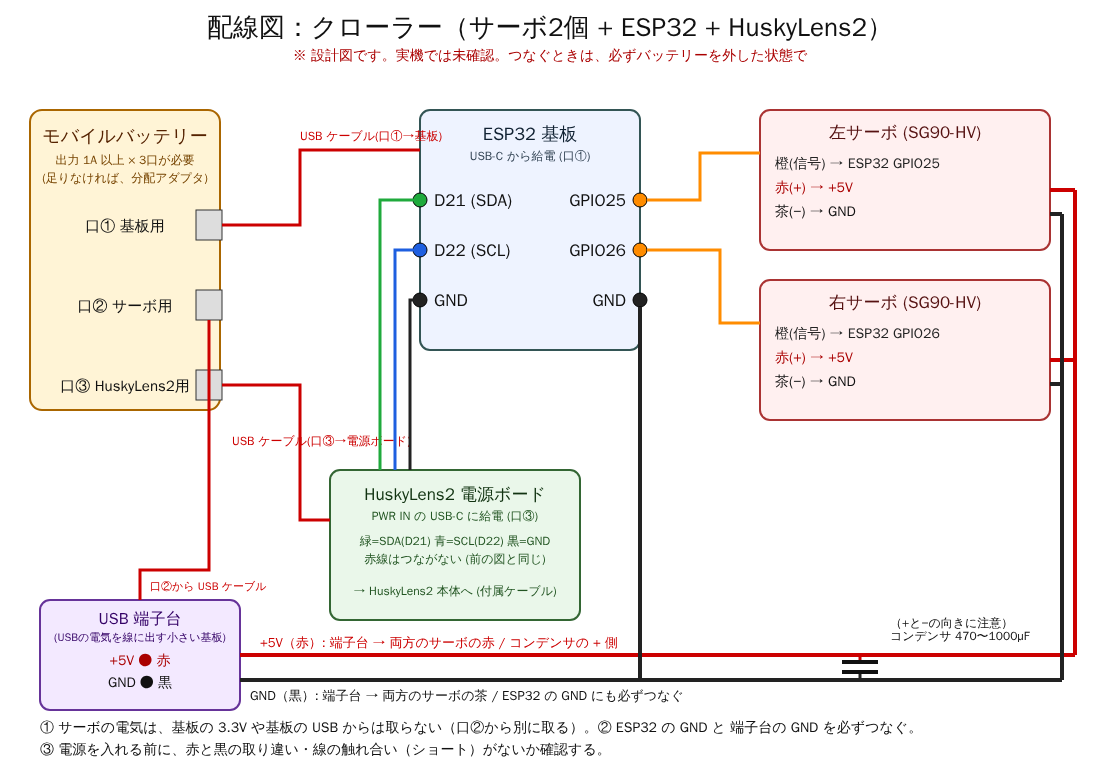
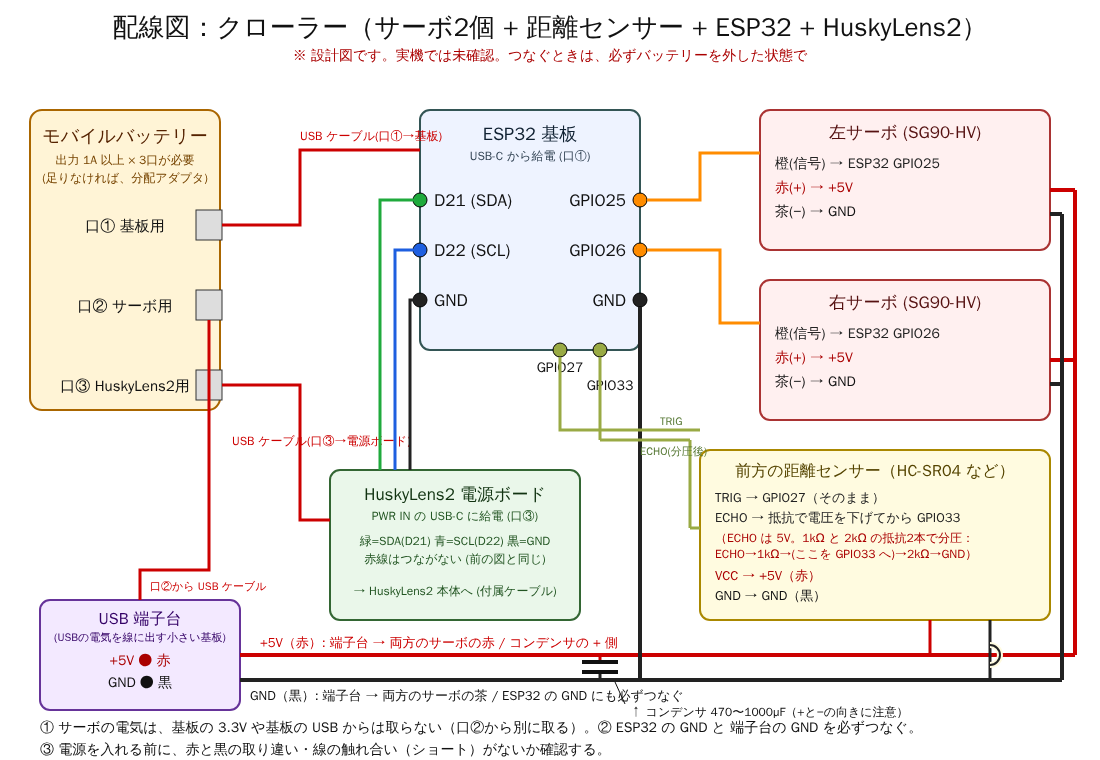
Wall avoidance with ultrasonic sensor (HC-SR04): back up and turn away while scouting; stop when wall ahead while tracking (unverified on device); wiring diagram updated
Claude-Session: https://claude.ai/code/session_012mYKMKpnkA774TEi34z85Q

diff --git a/Esp32TimeSync/esp32/drive.py b/Esp32TimeSync/esp32/drive.py
@@ -18,6 +18,13 @@ TURN_MS = 500  # 探すとき、1回に回る時間
 LOOK_MS = 1200  # 回ったあと、止まって見る時間(動いている間は、画像がぶれて、見つかりにくい)
 STEPS_PER_TURN = 12  # 「回る→見る」を、この回数やったら(だいたい1周)、少し前進する
 FORWARD_MS = 2000  # 1周しても見つからないとき、前進する時間
+# 前方の壁よけ(超音波距離センサー HC-SR04 など)
+PIN_TRIG = 27  # センサーの TRIG をつなぐ GPIO 番号
+PIN_ECHO = 33  # センサーの ECHO をつなぐ GPIO 番号(★5V の ECHO は、抵抗2本で 3.3V 以下に下げてから)
+STOP_CM = 25  # これより近いものが前にあれば、前進をやめる(センチ)
+CONFIRM_N = 2  # 近いという測定が、続けて何回出たら、本当に近いと判断するか(ノイズ対策)
+BACK_MS = 1000  # ぶつかりそうなとき、後ろに下がる時間
+AVOID_TURN_MS = 1000  # 下がったあと、壁から離れる向きに回る時間
 
 try:
     from time import ticks_diff
@@ -44,6 +51,8 @@ def wheel_signs(cmd):
     """動き -> (左, 右)。1 = 前に回す / -1 = 後ろに回す / 0 = 止める。(その場で回る: 左右を逆に回す)"""
     if cmd == "forward":
         return (1, 1)
+    if cmd == "back":
+        return (-1, -1)
     if cmd == "left":
         return (-1, 1)  # 左に回る = 左を後ろ、右を前
     if cmd == "right":
@@ -110,17 +119,44 @@ def _track(husky, current):
     return decide(first["x"], first["w"])
 
 
+class Sonar:
+    """超音波距離センサー。measure() で、前にあるものまでの距離(センチ)を返す。何も返ってこなければ None。"""
+
+    def __init__(self, trig, echo, pulse_fn, sleep_us, timeout_us=15000):
+        self.trig = trig
+        self.echo = echo
+        self.pulse_fn = pulse_fn  # machine.time_pulse_us
+        self.sleep_us = sleep_us
+        self.timeout_us = timeout_us  # 15 ms = 約2.5 m まで
+
+    def measure(self):
+        self.trig.value(0)
+        self.sleep_us(2)
+        self.trig.value(1)
+        self.sleep_us(10)
+        self.trig.value(0)
+        t = self.pulse_fn(self.echo, 1, self.timeout_us)
+        if t is None or t <= 0:
+            return None
+        return t / 58.0  # 音が往復する時間 → 距離(cm)
+
+
 class Planner:
     """見えているときは追いかけ、見えなくなったら、しばらく待ってから、回って探す(偵察)。"""
 
     def __init__(self, lost_ms=LOST_MS, turn_ms=TURN_MS, look_ms=LOOK_MS, steps=STEPS_PER_TURN,
-                 forward_ms=FORWARD_MS, img_w=IMG_W):
+                 forward_ms=FORWARD_MS, img_w=IMG_W, stop_cm=STOP_CM, confirm_n=CONFIRM_N,
+                 back_ms=BACK_MS, avoid_turn_ms=AVOID_TURN_MS):
         self.lost_ms = lost_ms
         self.turn_ms = turn_ms
         self.look_ms = look_ms
         self.steps = steps
         self.forward_ms = forward_ms
         self.img_w = img_w
+        self.stop_cm = stop_cm
+        self.confirm_n = confirm_n
+        self.back_ms = back_ms
+        self.avoid_turn_ms = avoid_turn_ms
         self.reset(0)
 
     def reset(self, now):
@@ -130,11 +166,43 @@ class Planner:
         self.phase = "turn"
         self.phase_start = now
         self.step_n = 0
+        self.avoiding = False  # 壁をよけている最中
+        self.avoid_phase = "back"
+        self.avoid_start = now
+        self._near_n = 0
+        self.blocked = False  # 前に、近いものがある
 
-    def update(self, husky, now, current):
-        """いまの動き ('forward' / 'left' / 'right' / 'stop') を返す。"""
+    def _update_blocked(self, dist_cm):
+        if dist_cm is not None and dist_cm < self.stop_cm:
+            self._near_n += 1
+        else:
+            self._near_n = 0  # 測れなかった(遠い)ときも、近くないとみなす
+        self.blocked = self._near_n >= self.confirm_n
+
+    def _turn_cmd(self):
+        return "right" if self.side > 0 else "left"
+
+    def update(self, husky, now, current, dist_cm=None):
+        """いまの動き ('forward' / 'back' / 'left' / 'right' / 'stop') を返す。
+        dist_cm: 前方の距離センサーの値(センチ)。なし(None)なら、壁よけはしない。"""
+        self._update_blocked(dist_cm)
         if husky is None or not husky.is_ready():
             self.reset(now)  # つながっていない間は止まる。つながったら、待ってから探し始める
+            return "stop"
+        if self.avoiding:  # 壁をよけている最中は、これを最後までやる: 下がる → 離れる向きに回る
+            elapsed = ticks_diff(now, self.avoid_start)
+            if self.avoid_phase == "back":
+                if elapsed < self.back_ms:
+                    return "back"
+                self.avoid_phase = "turn"
+                self.avoid_start = now
+                return self._turn_cmd()
+            if elapsed < self.avoid_turn_ms:
+                return self._turn_cmd()
+            self.avoiding = False  # よけ終わり: 探すのを、見る(止まる)ところから再開
+            self.phase = "look"
+            self.phase_start = now
+            self.step_n = 0
             return "stop"
         cmd = _track(husky, current)
         if cmd is not None:  # 鳥が見えている
@@ -143,6 +211,8 @@ class Planner:
             first = husky.first
             if first is not None:
                 self.side = 1 if first["x"] >= self.img_w // 2 else -1
+            if cmd == "forward" and self.blocked:
+                return "stop"  # 鳥は前にいるが、手前に壁などがある: ぶつからないよう止まる
             return cmd
         if ticks_diff(now, self.last_seen) < self.lost_ms:
             return "stop"  # 見失った直後は、止まって待つ
@@ -169,6 +239,12 @@ class Planner:
                 self.phase = "turn"
                 return "right" if self.side > 0 else "left"
             return "stop"
+        if self.blocked:  # 前進中に、前が近い: 下がって、壁から離れる向きに回る(毎回、向きを替えて、角にはまらないように)
+            self.avoiding = True
+            self.avoid_phase = "back"
+            self.avoid_start = now
+            self.side = -self.side
+            return "back"
         if elapsed >= self.forward_ms:  # forward
             self.phase = "turn"
             self.phase_start = now

diff --git a/HuskyLens2/test_drive.py b/HuskyLens2/test_drive.py
@@ -139,6 +139,77 @@ def test_scouting_stops_when_not_connected():
     assert pl.update(none, 1200, "stop") == "stop", "つながり直したら、また待ってから探す"
 
 
+def test_wheel_signs_back():
+    assert drive.wheel_signs("back") == (-1, -1)
+
+
+def test_sonar_measure():
+    class Pin:
+        def __init__(self):
+            self.log = []
+
+        def value(self, v=None):
+            self.log.append(v)
+
+    sleeps = []
+    pin = Pin()
+    s = drive.Sonar(pin, object(), lambda echo, level, timeout: 580, lambda us: sleeps.append(us))
+    assert abs(s.measure() - 10.0) < 1e-6, "580 マイクロ秒 = 10 cm"
+    assert pin.log == [0, 1, 0] and sleeps == [2, 10]
+    s2 = drive.Sonar(Pin(), object(), lambda *a: -2, lambda us: None)
+    assert s2.measure() is None, "返事がなければ None"
+    s3 = drive.Sonar(Pin(), object(), lambda *a: None, lambda us: None)
+    assert s3.measure() is None
+
+
+def _scout_to_forward(pl, none, start=1000):
+    """見失ってから、偵察の「前進」に入るところまで時間を進める。(時刻, 最後の動き) を返す。"""
+    t = start
+    cmd = "stop"
+    for _ in range(400):
+        cmd = pl.update(none, t, cmd)
+        if cmd == "forward":
+            return t, cmd
+        t += 100
+    raise AssertionError("前進に入らない")
+
+
+def test_avoid_wall_while_scouting_forward():
+    pl = drive.Planner(lost_ms=1000, turn_ms=500, look_ms=500, steps=2, forward_ms=5000,
+                       stop_cm=25, confirm_n=2, back_ms=1000, avoid_turn_ms=1000)
+    pl.update(FakeHusky(x=100), 0, "stop")  # 左寄りで見えていた -> side = -1(左)
+    none = FakeHusky(faces=0)
+    t, _ = _scout_to_forward(pl, none)
+    assert pl.update(none, t + 100, "forward", 100) == "forward", "遠いうちは、前進を続ける"
+    assert pl.update(none, t + 200, "forward", 20) == "forward", "1回だけ近くても、まだ前進(ノイズ対策)"
+    assert pl.update(none, t + 300, "forward", 20) == "back", "続けて近い: 下がる"
+    assert pl.avoiding
+    assert pl.update(none, t + 800, "back", 20) == "back"
+    assert pl.update(none, t + 1300, "back", 40) == "right", "下がったあと、壁から離れる向き(さっきと逆の右)へ回る"
+    assert pl.update(none, t + 2000, "right", 40) == "right"
+    assert pl.update(none, t + 2400, "right", 40) == "stop", "回り終わったら、止まって見る(偵察を再開)"
+    assert not pl.avoiding
+
+
+def test_no_sensor_means_no_avoidance():
+    pl = drive.Planner(lost_ms=1000, turn_ms=500, look_ms=500, steps=2, forward_ms=1000)
+    pl.update(FakeHusky(x=100), 0, "stop")
+    none = FakeHusky(faces=0)
+    t, _ = _scout_to_forward(pl, none)
+    for k in range(1, 5):
+        assert pl.update(none, t + k * 100, "forward", None) == "forward", "距離センサーがなければ、壁よけはしない"
+
+
+def test_tracking_forward_stops_when_wall_ahead():
+    pl = drive.Planner(stop_cm=25, confirm_n=2)
+    bird = FakeHusky(x=320)
+    assert pl.update(bird, 0, "stop", 100) == "forward"
+    assert pl.update(bird, 100, "forward", 20) == "forward"
+    assert pl.update(bird, 200, "forward", 20) == "stop", "鳥は前だが、手前が近い: 止まる"
+    assert pl.update(FakeHusky(x=100), 300, "stop", 20) == "left", "回るのは、壁が近くてもできる"
+    assert pl.update(bird, 400, "stop", 100) == "forward", "壁が遠のけば、また前進"
+
+
 if __name__ == "__main__":
     tests = [v for k, v in sorted(globals().items()) if k.startswith("test_")]
     for t in tests:

diff --git a/Esp32TimeSync/esp32/main.py b/Esp32TimeSync/esp32/main.py
@@ -304,8 +304,10 @@ def main():
         row("b_photo", pad("PH:%s %d" % ("ON" if husky.auto_photo else "OFF", husky.photos), 9), 90, lcd.YELLOW, 1, 164, 76)
         row("b_seen", pad(husky.seen, 9), 102, lcd.GREEN, 1, 164, 76)
         if drive is not None:  # 走行の状態: DR:OFF(動かない) / DR:ON FWD(前進) LFT(左) RGT(右) STP(停止)
-            short = {"forward": "FWD", "left": "LFT", "right": "RGT"}.get(drive.cmd, "STP")
-            if planner.scouting:
+            short = {"forward": "FWD", "back": "BCK", "left": "LFT", "right": "RGT"}.get(drive.cmd, "STP")
+            if planner.avoiding:
+                short = "AVD"  # 壁をよけている
+            elif planner.scouting:
                 short = "S-" + short[0]  # 偵察中(探して回っている): S-L / S-R / S-F / S-S(止まって見ている)
             row("b_ble", pad("DR:ON " + short if drive.enabled else "DR:OFF", 9), 114,
                 lcd.RED if drive.enabled else GRAY, 1, 164, 76)
@@ -343,6 +345,15 @@ def main():
         except Exception:
             drive = None  # サーボが使えなくても、画面は動かす
 
+    sonar = None  # 前方の距離センサー(つながっていなくても、動く)
+    if drive is not None:
+        try:
+            sonar = drive_mod.Sonar(machine.Pin(drive_mod.PIN_TRIG, machine.Pin.OUT),
+                                    machine.Pin(drive_mod.PIN_ECHO, machine.Pin.IN),
+                                    machine.time_pulse_us, time.sleep_us)
+        except Exception:
+            sonar = None
+
     def shoot_draw():
         # 写真を撮っている間(最大数秒)は、結果が読めず、動きを直せない。先に止める。
         if drive is not None:
@@ -378,7 +389,8 @@ def main():
                     husky.toggle_photo()
         if drive is not None:
             if state["mode"] == "bird":
-                drive.command(planner.update(husky, time.ticks_ms(), drive.cmd))
+                dist = sonar.measure() if (sonar is not None and drive.enabled) else None
+                drive.command(planner.update(husky, time.ticks_ms(), drive.cmd, dist))
             else:
                 drive.stop()
                 planner.reset(time.ticks_ms())
